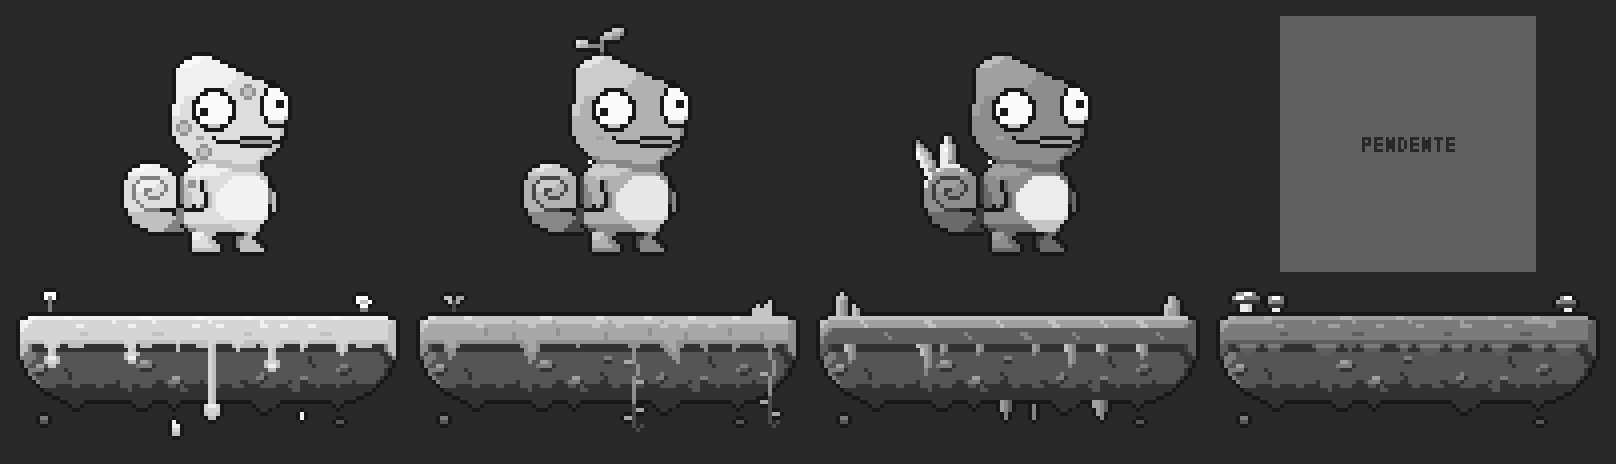
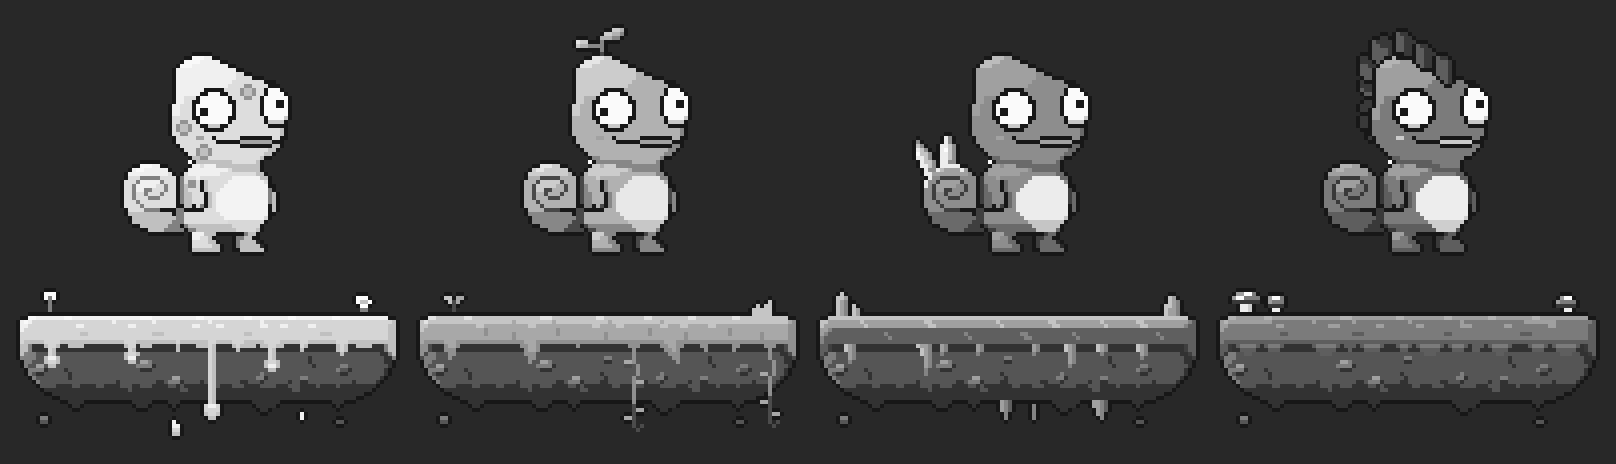
chore(godot-gecko-jump): wave 2 de f557-gecko-animado

Changed region(s): [[0.7735, 0.0302, 0.9592, 0.6034]]

diff --git a/docs/planejamento-design/direcao-de-arte.md b/docs/planejamento-design/direcao-de-arte.md
@@ -62,7 +62,7 @@ Entraram no `palette.gpl` conforme cada peça foi desenhada e aprovada pelo dono
 | Gecko azul | `#353880` (linha), `#5c5fc8`, `#5991ff` (base), `#61aff9`, `#9ec1ed` (brilho); luz `#a6c8ff`; barriga `#b2c8ea` / `#e2eefa` | A plataforma azul reusa esses tons mais `#3a5ad6` (sombra do gelo, mais fria que `#5c5fc8`) |
 | Grama da plataforma verde | `#22604a` (linha), `#52ba56`, base = âncora `#79cf5a`, `#a2ec5c`, `#e0f592` (brilho) | Cobertura derramando na borda da terra |
 | Terra / rocha orgânica (4 plataformas) | `#472b1b` (sombra), `#784b2e` (base), `#a87349` (luz), `#c99a5e` (brilho) | Os 3 primeiros tons são `terra_sombra` / `terra_base` / `terra_luz` da tabela abaixo; `terra_brilho` é o tom novo |
-| Cobertura e cogumelos da plataforma vermelha | `#7c182f` (linha), `#cd294c`, `#ff443e` (base), `#ff7a62`, `#f49c89` (brilho); talo `#f3c3a5` / `#ffe9d6` | Rampa a reconferir quando o gecko vermelho final chegar (pendente do dono) |
+| Cobertura e cogumelos da plataforma vermelha | `#7c182f` (linha), `#cd294c`, `#ff443e` (base), `#ff7a62`, `#f49c89` (brilho); talo `#f3c3a5` / `#ffe9d6` | Rampa conferida contra o gecko vermelho promovido (r12d refinado); reconferencia da plataforma vermelha fica para a feature de plataformas |
 
 #### Rampas aprovadas: menu (seção 5.3)
 
@@ -172,15 +172,15 @@ Imagem gerada por IA entra **só como inspiração** (`assets/src/refs/_inspirac
 | Estilo geral 16-bit | `assets/src/ref-estilo-dono.jpg` | Identidade luminosa SNES/GBA, contorno `#052018` e sombreado quente |
 | Gecko mestre (idle) | `assets/src/refs/gecko-idle-mestre.aseprite` / `.png` | Ref mestra `64×64` acabada pelo dono: rampa, contorno, luz e proporções (seções 1.2 e 1.5) |
 | Gecko verde, amarelo e azul | `assets/src/refs/gecko-verde.*`, `gecko-amarelo.*`, `gecko-azul.*` (`.aseprite` + `.png`) | Variantes aprovadas pelo dono com marca `#41` própria (brotinho, manchas solares, cristais de gelo) |
-| Gecko vermelho | (sem arquivo em `assets/src/refs/` ainda) | **Pendente do acabamento do dono no Aseprite**; chega com rampa no `palette.gpl` e nova rodada da prova cinza |
+| Gecko vermelho | `assets/src/refs/gecko-vermelho.*` (`.aseprite` + `.png`) | Variante promovida do r12d refinado pelo dono, com crista de lóbulos no topo e na nuca; rampa no `palette.gpl` e incluida na prova cinza |
 | Plataformas | `assets/src/refs/plataforma-amarelo.*`, `plataforma-verde.*`, `plataforma-azul.*`, `plataforma-vermelho.*` (`.aseprite` + `.png`) | 4 ilhotas aprovadas; a azul é a versão com gelo clareado (a versão anterior da plataforma azul fica preservada em `assets/src/_orig/plataforma-azul-r15.*`) |
-| Prova cinza `#41` | `assets/src/refs/prova-cinza-41.png` (gerada por `assets/src/prova_cinza_41.py`) | Prancha em escala de cinza aprovada pelo dono, com o gecko vermelho marcado **pendente** |
+| Prova cinza `#41` | `assets/src/refs/prova-cinza-41.png` (gerada por `assets/src/prova_cinza_41.py`) | Prancha em escala de cinza aprovada pelo dono, com o gecko vermelho incluido |
 | Rascunho do menu | `assets/src/refs/menu-rascunho.aseprite` / `.png` | Rascunho aprovado do menu (seção 5.3); o dono faz o acabamento |
 | Inspiração de clima | `assets/src/refs/_inspiracao/pixel-cozy.png`, `pixel-bg.png` | Só referência (origem/licença desconhecida); não entra no jogo |
 | Inspiração de IA | `assets/src/refs/_inspiracao-ia/` | `gecko-bipede-chibi-ref.jpg` (+ `_stand.png`), `ilhotas-powerups-ref.jpg`, `biomas-4-estagios-ref.jpg`, `menu-mockup-ref.jpg`: composição e clima, não pixel art de produção |
 | Power-ups, tiles de bioma e kit UI | (ainda sem arte) | Ref na feature de execução |
 
-O catálogo, a prova cinza e a rampa da plataforma vermelha fecham juntos quando o gecko vermelho do dono chegar.
+O catálogo e a prova cinza das 4 variantes incluem o gecko vermelho promovido; a rampa da plataforma vermelha segue para reconferência.
 
 O arquivo `assets/src/direcao-arte.aseprite` foi removido: os arquivos de `assets/src/refs/` o substituem.
 
@@ -233,12 +233,12 @@ Nenhuma informação essencial de gameplay depende exclusivamente de matiz. Cada
 | **Amarelo** (`#f6db61`) | **Mel Dourado / Florzinhas** | Cobertura de **mel dourado pingando** pela borda da terra + **micro-florzinhas** discretas (`4–6 px`) no topo (sem confundir com obstáculo) | **Manchas solares** circulares sutis (`amarelo_sombra`) no flanco/dorso, preservando a silhueta chibi bípede | **Círculos / brilhos dourados** (`8×8 px` redondos + mini-estrelas) | Mini-ilhota mel `64×24` + mini-gecko manchas `24×32` + rótulo `"amarelo"` |
 | **Verde** (`#79cf5a`) | **Grama / Folhinhas** | Cobertura de **grama verde** derramando na borda + **folhinhas e vinhas** curtas caindo na terra e brotos discretos no topo | **Brotinho de 2 folhas** nascendo no topo da cabeça, preservando a silhueta chibi bípede | **Folhas / gotas suaves** (`10×6 px` inclinadas caindo em leve arco) | Mini-ilhota grama `64×24` + mini-gecko brotinho `24×32` + rótulo `"verde"` |
 | **Azul** (`#5987e9`) | **Gelo / Cristal** | Cobertura de **gelo azul** derramando na borda + **micro-cristais angulares** discretos (`6–8 px`, `azul_luz`) no topo | **Cristais de gelo** angulares sutis no dorso/cabeça sem deformar os olhões nem a cauda espiral | **Losangos / cristais** (`10×10 px` em diamante com núcleo `azul_luz`) | Mini-ilhota gelo `64×24` + mini-gecko cristais `24×32` + rótulo `"azul"` |
-| **Vermelho** (`#ec4848`) | **Rubro / Cogumelos** | Cobertura **vermelha** derramando na borda + **micro-cogumelos** vermelhos com pintas brancas (`6–8 px`) no topo | **Espinhos dorsais fofos** curtos e arredondados ao longo do dorso sem poluir a silhueta | **Triângulos / faíscas** (`8×8 px` triangulares subindo rapidamente) | Mini-ilhota cogumelos `64×24` + mini-gecko espinhos `24×32` + rótulo `"vermelho"` |
+| **Vermelho** (`#ec4848`) | **Rubro / Cogumelos** | Cobertura **vermelha** derramando na borda + **micro-cogumelos** vermelhos com pintas brancas (`6–8 px`) no topo | **Crista de lóbulos** vermelhos no topo e na nuca da cabeça (não espinhos dorsais), sem poluir a silhueta | **Triângulos / faíscas** (`8×8 px` triangulares subindo rapidamente) | Mini-ilhota cogumelos `64×24` + mini-gecko crista `24×32` + rótulo `"vermelho"` |
 
 ### Regras de preservação do `#41`
 
 1. **Fim do tingimento chapado (`modulate`):** tanto o Gecko quanto as ilhotas abandonam o tingimento de sprite branco por `Enums.get_cor(...)`. Cada variante é desenhada diretamente com sua rampa de 3 cores + contorno `ink_contorno` (`#052018`), preservando olhos grandes (`#fffdf5` + pupila/espiral `#052018`), base de terra (`terra_luz/base/sombra`), brilhos quentes e marcas táteis sem lavagem de cor.
-2. **Validação obrigatória em escala de cinza:** a prancha em escala de cinza `assets/src/refs/prova-cinza-41.png` (gerada por `assets/src/prova_cinza_41.py`, luma Rec.601; critério: diferença média absoluta `>= 10` ou `XOR >= 5%` entre cada par) comprova que as 4 ilhotas e os camaleões bípedes chibi são diferenciáveis mesmo sem saturação cromática. O dono aprovou a prancha com o gecko vermelho marcado **pendente**: o script roda de novo quando o gecko vermelho final chegar. A plataforma azul teve o gelo clareado para separar do vermelho em cinza (original em `assets/src/_orig/plataforma-azul-r15.*`).
+2. **Validação obrigatória em escala de cinza:** a prancha em escala de cinza `assets/src/refs/prova-cinza-41.png` (gerada por `assets/src/prova_cinza_41.py`, luma Rec.601; critério: diferença média absoluta `>= 10` ou `XOR >= 5%` entre cada par) comprova que as 4 ilhotas e os camaleões bípedes chibi são diferenciáveis mesmo sem saturação cromática. A prancha inclui o gecko vermelho promovido (r12d refinado); o script regera a prancha quando qualquer uma das 4 folhas mudar. A plataforma azul teve o gelo clareado para separar do vermelho em cinza (original em `assets/src/_orig/plataforma-azul-r15.*`).
 3. **Tutorial bilíngue cor + padrão:** em `scenes/TutorialCard.gd`, os retângulos chapados das amostras (`=` igual / `X` diferente) e dos 4 quadrados da legenda passam a exibir mini-sprites das ilhotas e do gecko com suas marcas reais acompanhados dos nomes (`amarelo`, `verde`, `azul`, `vermelho`).
 
 ---
@@ -249,7 +249,7 @@ Toda a produção segue o pipeline de rascunho em 2 etapas + acabamento manual (
 
 ### 3.1 Gecko (`scenes/Player.tscn`, `scenes/Player.gd`)
 
-- **Design do personagem (`assets/src/refs/_inspiracao-ia/gecko-bipede-chibi-ref.jpg` e `assets/src/ref-estilo-dono.jpg`):** camaleão **bípede (em pé sobre as duas patas traseiras) em todas as poses**, com proporção **chibi `1:1` cabeça/corpo**, **olhões grandes esbugalhados com pupilas levemente desalinhadas** (`#fffdf5` + `#052018`) para uma expressão fofa e confusa, **cauda enrolada em espiral**, contorno limpo `#052018` e sombreado quente em 3 tons. As marcas `#41` sutis por cor (manchas solares no amarelo, brotinho de 2 folhas na cabeça no verde, cristais de gelo no dorso/cabeça no azul e espinhos dorsais fofos no vermelho) preservam intacta a silhueta chibi bípede.
+- **Design do personagem (`assets/src/refs/_inspiracao-ia/gecko-bipede-chibi-ref.jpg` e `assets/src/ref-estilo-dono.jpg`):** camaleão **bípede (em pé sobre as duas patas traseiras) em todas as poses**, com proporção **chibi `1:1` cabeça/corpo**, **olhões grandes esbugalhados com pupilas levemente desalinhadas** (`#fffdf5` + `#052018`) para uma expressão fofa e confusa, **cauda enrolada em espiral**, contorno limpo `#052018` e sombreado quente em 3 tons. As marcas `#41` sutis por cor (manchas solares no amarelo, brotinho de 2 folhas na cabeça no verde, cristais de gelo no dorso/cabeça no azul e crista de lóbulos no topo e na nuca no vermelho) preservam intacta a silhueta chibi bípede.
 - **Tamanho do frame:** **`64×64 px`** exatos (`2×` sobre `32×32 px`), pivô no centro `(32, 32)`. Prepara e preserva proporcionalmente na migração `360×640`:
   - **`GHOST_HALF_WIDTH = 32.0`** (`2×` de `16.0`) para wrap horizontal contínuo nas bordas de `PlayArea.LARGURA = 360`;
   - `CollisionShape2D` do corpo e `DetectorPlataforma` escalados `2×` na entrega de migração para `360×640`, mantendo a base do pé alinhada ao mesmo ponto de contato em todas as poses (`y = 60` do frame `64×64`, `y = +28 px` a partir do pivô).
